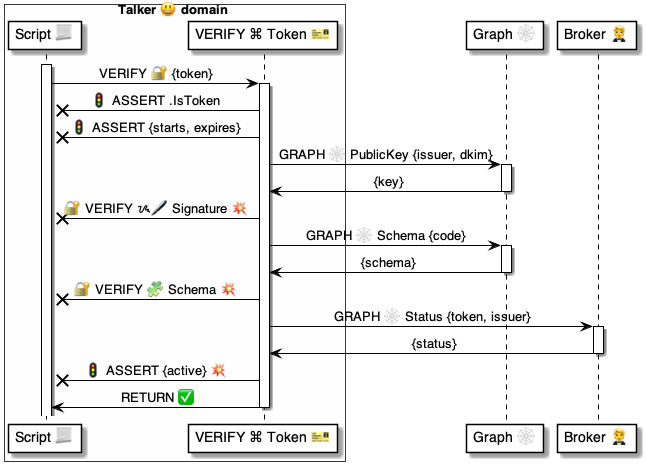
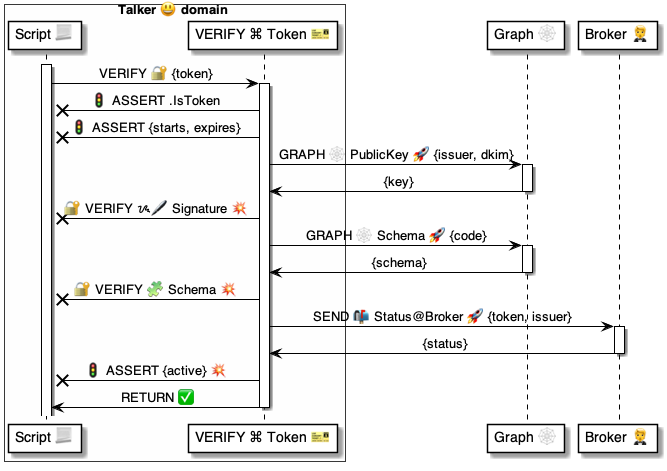
.

diff --git a/4 ⚙ Solution/37 Scripts 📃/📃 Commands ⌘/⌘ for messages 📨/VERIFY 🔐/VERIFY Token 🎫/🔐 VERIFY Token 📃 script.md b/4 ⚙ Solution/37 Scripts 📃/📃 Commands ⌘/⌘ for messages 📨/VERIFY 🔐/VERIFY Token 🎫/🔐 VERIFY Token 📃 script.md
@@ -26,23 +26,38 @@
 # Assert the data structure
 - ASSERT: $Token.IsToken
 
-# Assert the validity period
+# Assert that we're in the validity period
 - ASSERT $Token:
     Starts.IsPast:      # Is currently activate
     Expires.IsFuture:   # Has not expired
 
 # Get the public key of the issuer from Graph
-- GRAPH PublicKey >> $key:
-    Issuer: $Token.Issuer
+- GRAPH PublicKey >> $publicKey:
+    Domain: $Token.Issuer
     DKIM: $Token.DKIM
 
+# Verify the signature
+- VERIFY $Token:
+    Data: 
+        $Token.Minus: Signature
+    Hash: $Token.Hash
+    Signature: $Token.Signature
+    PublicKey: $publicKey
+
+# Get the schema definition
+- VERIFY:
+    Data: $Token.Context 
+    Schema: $Token.Schema
+
+# Assert that the Token Data matches the Schema definition
 - ASSERT:
-    
+    $Token.Data.Conforms: $definition
 ```
 
 Uses||
 |-|-
-| [Commands ⌘](<../../../../../35 💬 Chats/Scripts 📃/Command ⌘.md>) | [`ASSERT`](<../../../⌘ for holders 🧠/ASSERT 🚦/🚦 ASSERT ⌘ cmd.md>) {{GRAPH}}
-| [Holders 🧠](<../../../../../35 💬 Chats/Scripts 📃/Holder 🧠.md>) | [`$.Hosted`](<../../../../📃 Holders 🧠/System holders 🔩/$.Hosted 📦/📦 $.Hosted 🧠 holder.md>) [`$.Inputs`](<../../../../📃 Holders 🧠/System holders 🔩/$.Inputs 🏃/▶ $.Inputs 🧠 holder.md>)
+| [Commands ⌘](<../../../../../35 💬 Chats/Scripts 📃/Command ⌘.md>) | [`ASSERT`](<../../../⌘ for holders 🧠/ASSERT 🚦/🚦 ASSERT ⌘ cmd.md>) [`GRAPH`](<../../GRAPH 🕸/🕸 GRAPH ⌘ cmd.md>)
+| [{Functions} 🐍](<../../../../../35 💬 Chats/Scripts 📃/Function 🐍.md>) | [`.IsToken`](<../../../../📃 Functions 🐍/🐍 System 🔩 functions/IsToken ⓕ.md>)  [`.IsPast`](<../../../../📃 Functions 🐍/🐍 System 🔩 functions/IsPast ⓕ.md>)  [`.IsFuture`](<../../../../📃 Functions 🐍/🐍 System 🔩 functions/IsFuture ⓕ.md>)  
+| [Holders 🧠](<../../../../../35 💬 Chats/Scripts 📃/Holder 🧠.md>) | [`$.Inputs`](<../../../../📃 Holders 🧠/System holders 🔩/$.Inputs 🏃/▶ $.Inputs 🧠 holder.md>)
 | [Messages 📨](<../../../../../30 🧩 Data/Messages 📨/📨 Message/📨 Message.md>) | [`Trusts@Graph` 🚀 call](<../../../../../45 🤲 Helper domains/Graphs 🕸/🕸📨 Graph msgs/👥🚀🕸 Trusts/🕸 Trusts 🚀 call.md>) <br/> [`PublicKey@Graph` 🚀 call](<../../../../../45 🤲 Helper domains/Graphs 🕸/🕸📨 Graph msgs/👥🚀🕸 Public Key/🕸 Public Key 🚀 call.md>)
 |

diff --git a/4 ⚙ Solution/37 Scripts 📃/📃 Commands ⌘/⌘ for messages 📨/VERIFY 🔐/VERIFY Data Signature ᝰ🖊/🔐 Data Signature 📃 script.md b/4 ⚙ Solution/37 Scripts 📃/📃 Commands ⌘/⌘ for messages 📨/VERIFY 🔐/VERIFY Data Signature ᝰ🖊/🔐 Data Signature 📃 script.md
@@ -1,0 +1,55 @@
+# 🔐 Talker `VERIFY` Signature 🖋
+
+> About
+* Part of the [`VERIFY` ⌘ command](<../🔐 VERIFY ⌘ cmd.md>)
+
+<br/>
+
+## Diagram
+
+![alt text](<🔐 Data Signature ⚙ uml.png>)
+
+<br/>
+
+## How to call
+
+```yaml
+- RUN .VERIFY-Signature:
+    Data: {...}
+    Hash: <base64-hash>
+    Signature: <base64-signature>    
+    PublicKey: <base64-public-key>
+```
+
+<br/>
+
+## Script 
+
+```yaml
+📃 .VERIFY-Data-Signature:
+
+# Assert the data structure
+- ASSERT $.Inputs:
+
+    # Group assertions
+    AllOf: Hash, Signature, PublicKey, Data
+    Texts: Hash, Signature, PublicKey
+
+    # Individual assertions
+    Hash.IsBase64:       # Base 64 hash
+    Signature.IsBase64:  # Base 64 signature
+    PublicKey.IsPEM:     # PEM public key
+    
+    # Cryptographic assertions
+    Hash.Hashes: Data    # Data matches the hash
+    Signature.Signs:     # Signature is valid
+        Data: Data
+        PublicKey: PublicKey
+```
+
+Uses||
+|-|-
+| [Commands ⌘](<../../../../../35 💬 Chats/Scripts 📃/Command ⌘.md>) | [`ASSERT`](<../../../⌘ for holders 🧠/ASSERT 🚦/🚦 ASSERT ⌘ cmd.md>)  [`SEND`](<../../SEND 📬/📬 SEND ⌘ cmd.md>)
+| [{Functions} 🐍](<../../../../../35 💬 Chats/Scripts 📃/Function 🐍.md>) | [`.IsBase64`](<../../../../📃 Functions 🐍/🐍 System 🔩 functions/IsBase64 ⓕ.md>) [`.Hashes`](<../../../../📃 Functions 🐍/🐍 System 🔩 functions/Hashes ⓕ.md>) [`.IsPEM`](<../../../../📃 Functions 🐍/🐍 System 🔩 functions/IsPEM ⓕ.md>) [`.Signs`](<../../../../📃 Functions 🐍/🐍 System 🔩 functions/Signs ⓕ.md>)
+| [Holders 🧠](<../../../../../35 💬 Chats/Scripts 📃/Holder 🧠.md>) | [`$.Hosted`](<../../../../📃 Holders 🧠/System holders 🔩/$.Hosted 📦/📦 $.Hosted 🧠 holder.md>) [`$.Inputs`](<../../../../📃 Holders 🧠/System holders 🔩/$.Inputs 🏃/▶ $.Inputs 🧠 holder.md>)
+|

diff --git a/4 ⚙ Solution/37 Scripts 📃/📃 Commands ⌘/⌘ for messages 📨/VERIFY 🔐/VERIFY Domain Signature ᝰ🖊/🔐 Domain Signature 📃 script.md b/4 ⚙ Solution/37 Scripts 📃/📃 Commands ⌘/⌘ for messages 📨/VERIFY 🔐/VERIFY Domain Signature ᝰ🖊/🔐 Domain Signature 📃 script.md
@@ -1,0 +1,58 @@
+# 🔐 Talker `VERIFY` Domain Signature 🖋
+
+> About
+* Part of the [`VERIFY` ⌘ command](<../🔐 VERIFY ⌘ cmd.md>)
+
+<br/>
+
+## Diagram
+
+![alt text](<🔐 Domain Signature ⚙ uml.png>)
+
+<br/>
+
+## How to call
+
+```yaml
+- RUN .VERIFY-Domain-Signature:
+    Data: {...}
+    Hash: <base64-hash>
+    DKIM: pk1
+    Domain: any-domain.dom
+    Signature: <base64-signature>    
+```
+
+<br/>
+
+## Script 
+
+```yaml
+📃 .VERIFY-Domain-Signature:
+
+# Assert the inputs
+- ASSERT $.Inputs:
+    AllOf: Domain, DKIM, Data, Hash, Signature
+    Texts: Domain, DKIM
+    
+    # Cryptographic assertions
+    Hash.IsBase64:       # Base 64 hash
+    Hash.Hashes: Data    # Data matches the hash
+
+# Get the public key of the domain from Graph
+- GRAPH PublicKey >> $publicKey:
+    Domain: $Domain
+    DKIM: $DKIM
+
+# Verify the signature
+- RUN .VERIFY-Data-Signature:
+    Data: $Data
+    Hash: $Hash
+    Signature: $Signature
+    PublicKey: $publicKey
+```
+
+Uses||
+|-|-
+| [Commands ⌘](<../../../../../35 💬 Chats/Scripts 📃/Command ⌘.md>) | [`ASSERT`](<../../../⌘ for holders 🧠/ASSERT 🚦/🚦 ASSERT ⌘ cmd.md>) [`GRAPH`](<../../GRAPH 🕸/🕸 GRAPH ⌘ cmd.md>) [`VERIFY`](<../🔐 VERIFY ⌘ cmd.md>)
+| [Holders 🧠](<../../../../../35 💬 Chats/Scripts 📃/Holder 🧠.md>) | [`$.Hosted`](<../../../../📃 Holders 🧠/System holders 🔩/$.Hosted 📦/📦 $.Hosted 🧠 holder.md>) [`$.Inputs`](<../../../../📃 Holders 🧠/System holders 🔩/$.Inputs 🏃/▶ $.Inputs 🧠 holder.md>)
+|

diff --git a/4 ⚙ Solution/37 Scripts 📃/📃 Functions 🐍/🐍 System 🔩 functions/Signs ⓕ.md b/4 ⚙ Solution/37 Scripts 📃/📃 Functions 🐍/🐍 System 🔩 functions/Signs ⓕ.md
@@ -1,4 +1,4 @@
-# 😃ⓕ Talker `.IsSigned` function
+# 😃ⓕ Talker `.Signs` function
 
 > About
 * Part of [{Function} 🐍](<../../../35 💬 Chats/Scripts 📃/Function 🐍.md>)
@@ -7,9 +7,9 @@
 ## FAQ
 
 
-1. **What is the .IsSigned function?**
+1. **What is the .Signs function?**
 
-    `.IsSigned`
+    `.Signs`
     * is a [{Function} 🐍](<../../../35 💬 Chats/Scripts 📃/Function 🐍.md>) 
     * to validate the signature of a payload with a public key
     * that returns `True` the signature is valid
@@ -18,16 +18,16 @@
     ---
     <br/>
 
-1. **What's the syntax of .IsSigned?**
+1. **What's the syntax of .Signs?**
 
     ```yaml
-    $payload.IsSigned:
-        Signature: $signature
+    $signature.Signs:
+        Data: $data
         PublicKey: $publicKey
     ```
 
     | Inputs     | Purpose                      | Examples                          |
     |-|-|-
-    | `$payload`   | original data to verify  | `Hello!` `{A:1,B2}`
+    | `$data`   | original data to verify  | `Hello!` `{A:1,B2}`
     | `$signature` | base64 signature to validate   | `...`|
     | `$publicKey` | base64 key for verification | `...` |

diff --git a/4 ⚙ Solution/37 Scripts 📃/📃 Functions 🐍/🐍 System 🔩 functions/IsToken ⓕ.md b/4 ⚙ Solution/37 Scripts 📃/📃 Functions 🐍/🐍 System 🔩 functions/IsToken ⓕ.md
@@ -33,22 +33,27 @@
     - ASSERT $Token:
 
         # Group validations
-        AllOf: Issued, Starts, Schema, Issuer, Signature, DKIM
+        AllOf: Issued, Starts, Schema, Issuer, Hash, Signature, DKIM
         Times: Issued, Starts, Expires
-        Texts: Signature, DKIM
+        Texts: DKIM
         
         # Field validations
         Schema.IsSchema:
         Issuer.IsDomain:
         Identity.IsDomain:
-        Signature.IsBase64:
 
         # Time validations
         Issued.IsPast:
         Expires.IsAfter: Starts
+
+        # Signature validations
+        Hash.IsBase64:
+        Signature.IsBase64:
+        Hash.Hashes: 
+            $Token.Minus: Hash, Signature
     ```
 
-    Uses: [`.IsDomain`](<IsDomain ⓕ.md>) [`.IsSchema`](<IsSchema ⓕ.md>) 
+    Uses: [`.Hashes`](<Hashes ⓕ.md>) [`.IsAfter`](<IsAfter ⓕ.md>) [`.IsBase64`](<IsBase64 ⓕ.md>) [`.IsDomain`](<IsDomain ⓕ.md>) [`.IsPast`](<IsPast ⓕ.md>) [`.IsSchema`](<IsSchema ⓕ.md>) [`.Minus`](<Minus ⓕ.md>) 
 
     ---
     <br/>

diff --git a/4 ⚙ Solution/37 Scripts 📃/📃 Functions 🐍/🐍 System 🔩 functions/Hashes ⓕ.md b/4 ⚙ Solution/37 Scripts 📃/📃 Functions 🐍/🐍 System 🔩 functions/Hashes ⓕ.md
@@ -1,4 +1,4 @@
-# 😃ⓕ Talker `.IsHashed` function
+# 😃ⓕ Talker `.Hashes` function
 
 > About
 * Part of [{Function} 🐍](<../../../35 💬 Chats/Scripts 📃/Function 🐍.md>)
@@ -7,20 +7,20 @@
 ## FAQ
 
 
-1. **What is the .IsHashed function?**
+1. **What is the .Hashes function?**
 
-    `.IsHashed`
+    `.Hashes`
     * is a [{Function} 🐍](<../../../35 💬 Chats/Scripts 📃/Function 🐍.md>) 
     * to validate signatures and keys
-    * that returns `True` if a given holder is in [hashed format](https://en.wikipedia.org/wiki/Cryptographic_hash_function) 
+    * that returns `True` if a given holder is the [hashing](https://en.wikipedia.org/wiki/Cryptographic_hash_function) result a given payload
     * or `False` otherwise.
 
     ---
     <br/>
 
-1. **What's the syntax of .IsHashed?**
+1. **What's the syntax of .Hashes?**
 
     ```yaml
-    $holder.IsHashed
+    $hash.Hashes: $payload
     ```
     

diff --git a/4 ⚙ Solution/45 🤲 Helper domains/Graphs 🕸/🕸📨 Graph msgs/👥🚀🕸 Public Key/🕸 Public Key 🚀 call.md b/4 ⚙ Solution/45 🤲 Helper domains/Graphs 🕸/🕸📨 Graph msgs/👥🚀🕸 Public Key/🕸 Public Key 🚀 call.md
@@ -24,7 +24,7 @@ Header:
     Subject: PublicKey@Graph
 
 Body:
-    Issuer: any-issuer.dom
+    Domain: any-issuer.dom
     DKIM: pk1
 ```
 
@@ -33,7 +33,7 @@ Body:
 | Header|`From`|text| The name of the [domain 👥](<../../../../40 👥 Domains/👥 Domain/👥 Domain.md>) asking
 |       |`To`|text| [Graph 🕸 domain](<../../🕸 Graph helper/🕸🤲 Graph helper.md>) name
 |       | `Subject` |text| `PublicKey@Graph`
-|Body   | `Issuer`  |text| [Issuer 🎴 domain](<../../../../41 🎭 Domain Roles/Issuers 🎴/🎴 Issuer/🎴🎭 Issuer role.md>) name
+|Body   | `Domain`  |text| [domain 👥](<../../../../40 👥 Domains/👥 Domain/👥 Domain.md>) name
 |       | `DKIM`|text| [DKIM 📨](<../../../../30 🧩 Data/Messages 📨/📨 Message/📨 Message.md>) name
 |
 
